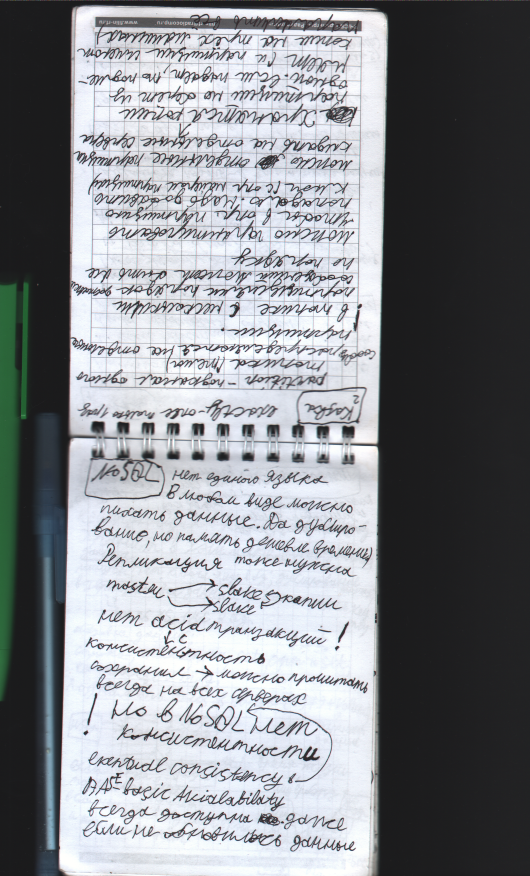
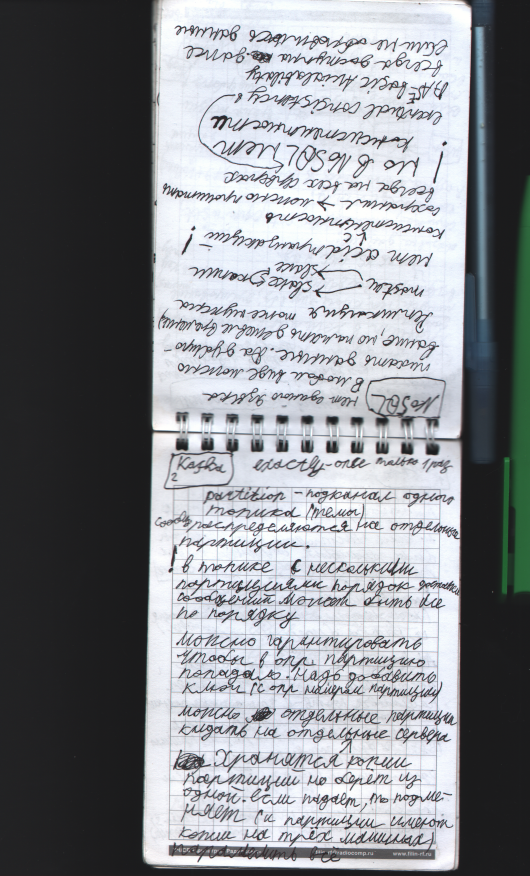
decoder: the frame is 180 degrees rotated (sync with bearpaw-sane core)
Mirrored column mapping + bottom-up row emission; sample image
regenerated.

diff --git a/src/core/bearpaw.cpp b/src/core/bearpaw.cpp
@@ -224,6 +224,11 @@ bool Scanner::scan(const ScanParams &params, const LineFn &onLine,
     std::vector<uint8_t> raw(kStride * 64);   // line reassembly buffer
     int rawFill = 0, lineNo = 0;
     std::vector<uint8_t> outRow(params.color ? kOutW * 3 : kOutW);
+    // decoded rows are buffered and emitted bottom-up: the scanner reads
+    // the page from its bottom line, so the frame needs a 180° turn
+    // (vertical flip + mirrored sensor X axis)
+    std::vector<uint8_t> outBuf;
+    outBuf.reserve(23u << 20);
 
     const auto feed = [&](const uint8_t *data, int n) {
         while (n > 0) {
@@ -236,25 +241,25 @@ bool Scanner::scan(const ScanParams &params, const LineFn &onLine,
                 rawFill = 0;
                 if (++lineNo > kSkipLines && onLine) {
                     const uint8_t *line = raw.data();
-                    // orientation: sensor columns map straight to output
-                    // (x -> 219+x); only the G die is mirrored (+shift 66)
+                    // X axis: the frame is mirrored (out x <- sensor
+                    // 2340-x); the G die is additionally reversed (+66 px)
                     if (params.color) {
                         for (int x = 0; x < kOutW; ++x) {
-                            int pG = kPx - 1 + kGShift - (219 + x);
+                            int pG = x + kGShift + 219;
                             if (pG > kPx - 1) pG = kPx - 1;
-                            const int pRB = 219 + x;
+                            const int pRB = kPx - 1 - (219 + x);
                             outRow[3 * x + 0] = lut[0][line[pRB * 3 + 2]];
                             outRow[3 * x + 1] = lut[1][line[pG * 3]];
                             outRow[3 * x + 2] = lut[2][line[pRB * 3 + 1]];
                         }
-                        onLine(outRow.data(), kOutW * 3);
+                        outBuf.insert(outBuf.end(), outRow.begin(), outRow.end());
                     } else {
                         for (int x = 0; x < kOutW; ++x) {
-                            int pG = kPx - 1 + kGShift - (219 + x);
+                            int pG = x + kGShift + 219;
                             if (pG > kPx - 1) pG = kPx - 1;
                             outRow[x] = lut[1][line[pG * 3]];
                         }
-                        onLine(outRow.data(), kOutW);
+                        outBuf.insert(outBuf.end(), outRow.begin(), outRow.end());
                     }
                 }
             }
@@ -344,6 +349,13 @@ bool Scanner::scan(const ScanParams &params, const LineFn &onLine,
         }
         if ((i & 255) == 0 && onProgress)
             onProgress(double(i) / total * 100.0, "");
+    }
+    // emit the buffered rows bottom-up (vertical part of the 180° turn)
+    if (onLine && !outBuf.empty()) {
+        const size_t rowLen = params.color ? size_t(kOutW) * 3 : size_t(kOutW);
+        for (const uint8_t *p = outBuf.data() + outBuf.size() - rowLen;
+             p + rowLen > outBuf.data(); p -= rowLen)
+            onLine(p, int(rowLen));
     }
     if (onProgress)
         onProgress(100.0, "");
